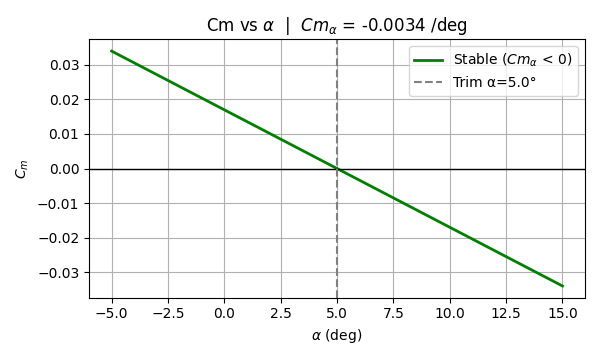
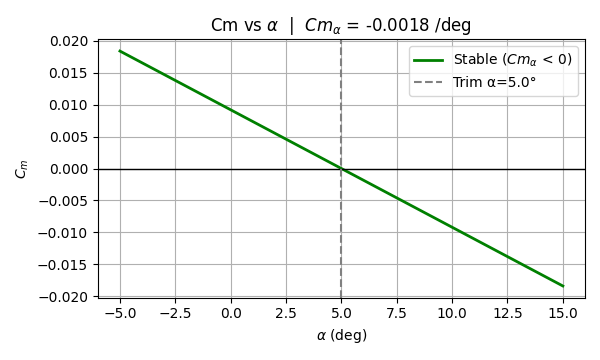
changed iteration to solve for dihedral angle instead of the v tail area

diff --git a/A5 P3.py b/A5 P3.py
@@ -56,6 +56,44 @@ def Cn_beta_total(Cn_beta_wf: float, CL_alpha_v: float, Vv: float, sideslip_fact
     Cnβ = Cnβ,wf + CLα,v * Vv * (1 + dσ/dβ)
     """
     return Cn_beta_wf + CL_alpha_v * Vv * sideslip_factor
+def solve_dihedral_for_target_Cn_beta(
+    Cn_beta_target: float,
+    Cn_beta_wf: float,
+    CL_alpha_v: float,
+    S_physical: float,   # actual panel area from OpenVSP
+    lt: float,
+    S_ref: float,
+    b: float,
+    AR_wing: float,
+) -> float:
+    """
+    Solve for dihedral angle Γ (deg) such that the vertical projection
+    Sv = S_physical * cos(Γ) achieves the target Cn_beta.
+    """
+    def f(gamma_rad: float) -> float:
+        Sv = S_physical * np.cos(gamma_rad)          # vertical projection
+        factor = sideslip_downwash_factor(Sv, S_ref, AR_wing)
+        Vv = vertical_tail_volume_coefficient(Sv, lt, S_ref, b)
+        return Cn_beta_total(Cn_beta_wf, CL_alpha_v, Vv, factor) - Cn_beta_target
+
+    lo, hi = 0.0, np.deg2rad(89.9)   # 0 = pure vertical, 90 = pure horizontal
+
+    if f(lo) < 0:
+        raise ValueError("Even a fully vertical tail (Γ=0) cannot achieve target Cn_beta — increase S_physical, span, or chord.")
+    if f(hi) > 0:
+        raise ValueError("Target Cn_beta is too low — even Γ=90° exceeds it.")
+
+    for _ in range(200):
+        mid = 0.5 * (lo + hi)
+        fmid = f(mid)
+        if abs(fmid) < 1e-9 or (hi - lo) < 1e-9:
+            return np.rad2deg(mid)
+        if f(lo) * fmid < 0:
+            hi = mid
+        else:
+            lo = mid
+
+    return np.rad2deg(0.5 * (lo + hi))
 
 def solve_Sv_for_target_Cn_beta(
     Cn_beta_target: float,
@@ -199,7 +237,7 @@ if __name__ == "__main__":
     print(f"Tail AC abs ≈ {x_ac_v_abs:.3f}")
     print(f"lt = x_ac_v_abs - x_cg_abs = {lt:.3f}")
 
-    Cn_beta_target_deg = 0.01   # <-- CHANGE if needed
+    Cn_beta_target_deg = 0.001   # <-- CHANGE if needed
     Cn_beta_target = per_deg_to_per_rad(Cn_beta_target_deg)  # convert to per rad
 
     # Baseline wing-fuselage yaw stability (placeholder; set if known)
@@ -230,9 +268,34 @@ if __name__ == "__main__":
         print(f"Sv_needed = {Sv_needed:.4f} (same area units as S)")
         print(f"Achieved Cn_beta = {Cn_beta:.6f} per rad = {per_rad_to_per_deg(Cn_beta):.6f} per deg")
 
+        # Physical tail panel from OpenVSP
+        span_v       = 9.0
+        root_chord_v = 7.0
+        tip_chord_v  = 3.0
+        S_physical   = 0.5 * (root_chord_v + tip_chord_v) * span_v
+
+        dihedral_deg = solve_dihedral_for_target_Cn_beta(
+            Cn_beta_target=Cn_beta_target,
+            Cn_beta_wf=Cn_beta_wf,
+            CL_alpha_v=CL_alpha_v,
+            S_physical=S_physical,
+            lt=lt,
+            S_ref=S,
+            b=b,
+            AR_wing=AR
+        )
+
+        Sv_vert  = S_physical * np.cos(np.deg2rad(dihedral_deg))
+        Sv_horiz = S_physical * np.sin(np.deg2rad(dihedral_deg))
+
+        print(f"\n---- V-Tail Geometry ----")
+        print(f"S_physical (panel) = {S_physical:.4f}")
+        print(f"Dihedral angle     = {dihedral_deg:.2f} deg")
+        print(f"Sv_vertical        = {Sv_vert:.4f}  (contributes to Cn_beta)")
+        print(f"Sv_horizontal      = {Sv_horiz:.4f}  (contributes to Cm/roll)")
+
         # ---------------- PLOT 2: Cn vs beta ----------------
         plot_Cn_vs_beta(Cn_beta)
 
     except ValueError as e:
-        print("Could not solve for Sv:", e)
-        print("No Cn vs beta plot produced.")
+        print("Could not solve:", e)
